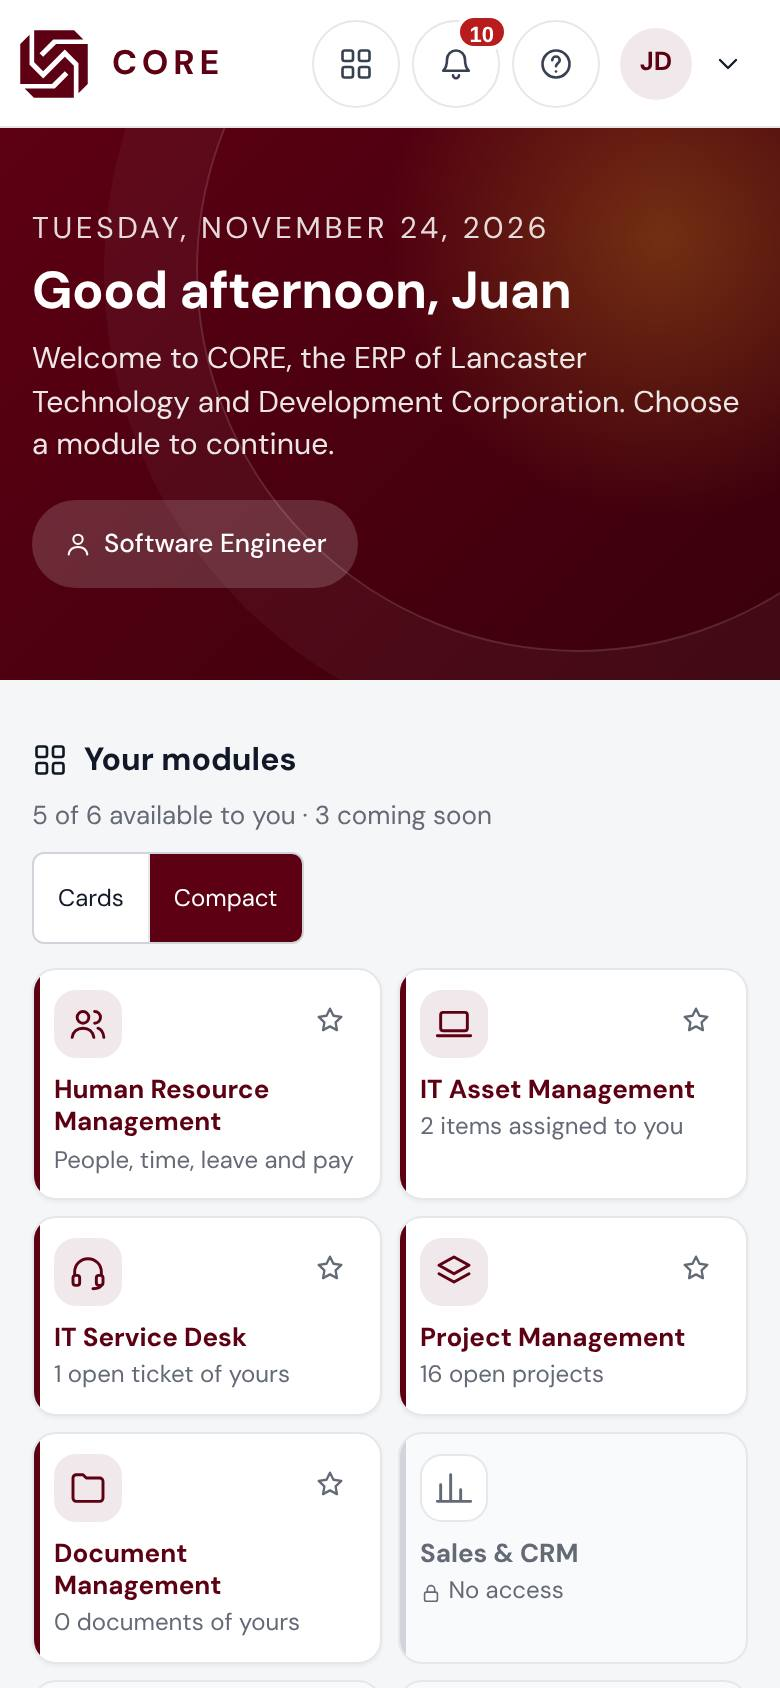
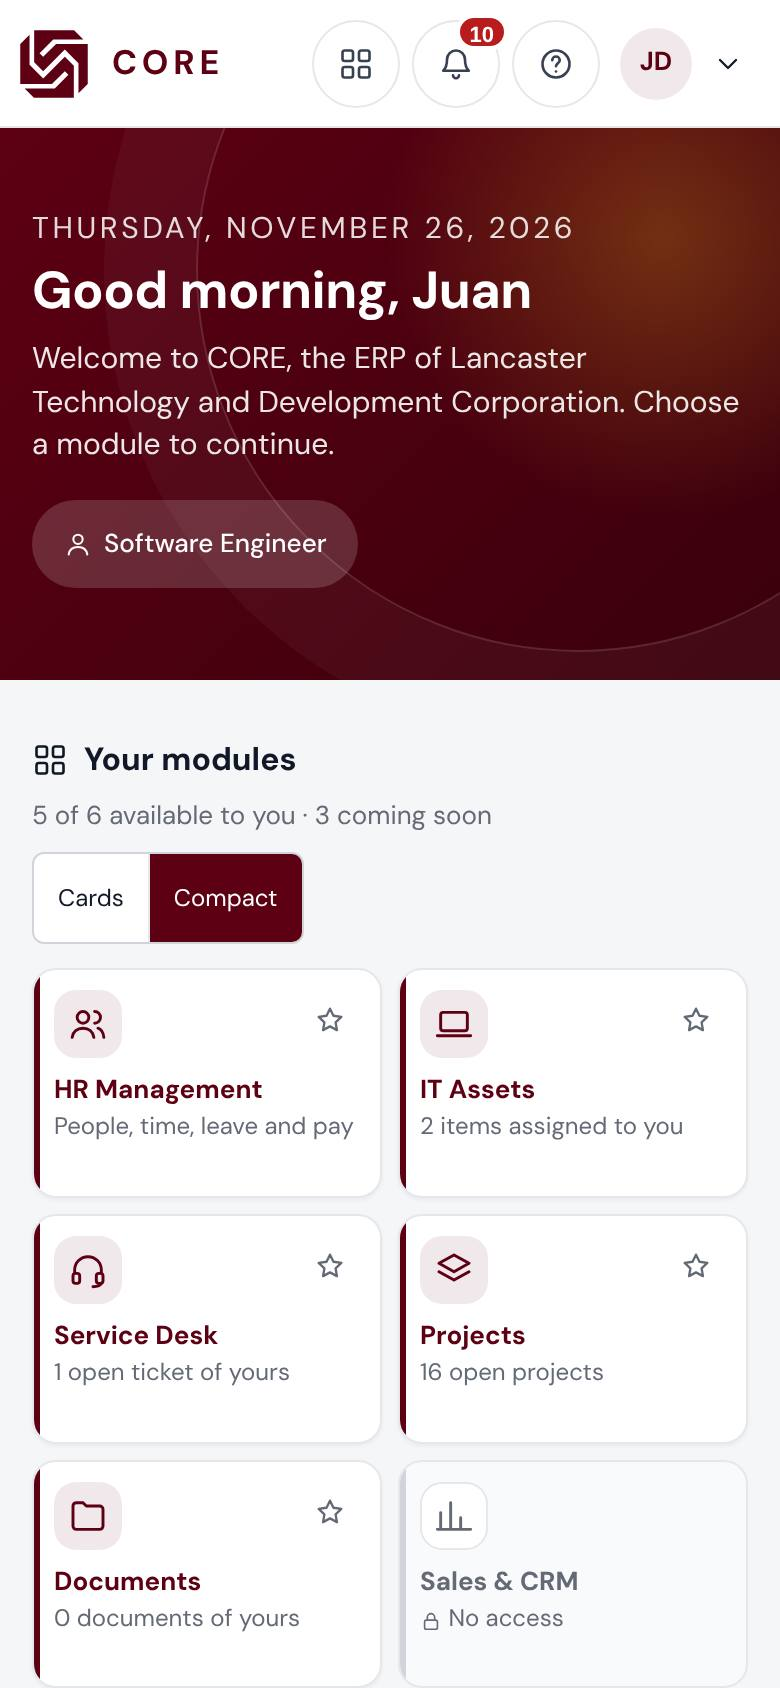
0.68.1-alpha: compact home tiles all one height
In the Compact view of the CORE home, tiles whose full name wrapped onto
two lines (Human Resource Management, Document Management, and more on
narrower screens) were 80 px against 68 px and stretched their whole
grid row; on a phone tiles were 100 to 117 px. Tiles now show the short
name the modules menu uses, on one line (full name in the tooltip), and
on a phone keep room for two lines of the figure. Measured at 390, 700,
1000, 1280 and 1500 px: every module, integration and tool tile is one
height. Getting started, What's new and three screenshots updated.

Claude-Session: https://claude.ai/code/session_01JQ4oxiUA7CnD1ir2UC84uB

diff --git a/public/js/views/launcher.js b/public/js/views/launcher.js
@@ -134,7 +134,9 @@ export async function launcherView(el) {
   const trackItems = () => html`${ordered().map((m) => (ctx.moduleHome(m.id) ? slot(m) : card(m)))}${soon.map(soonCard)}`;
 
   // The compact view (0.46): every module at once as a small tile in a grid, in the same order,
-  // with the same star; the first live figure (or what the module is) under its name.
+  // with the same star; the first live figure (or what the module is) under its name. The tile shows
+  // the module's short name (as the modules menu does) on one line, so every tile is the same height
+  // (QA 0.68.1: full names wrapped and made their whole row taller); the full name is in its title.
   const mini = (m) => {
     const home = ctx.moduleHome(m.id);
     const on = pinned().includes(m.id);
@@ -142,7 +144,7 @@ export async function launcherView(el) {
     const off = !soonOne && !moduleOn(m.id);
     const sub = soonOne ? 'Coming soon' : !home ? 'No access' : off ? 'Off for the company' : (stats[m.id] || [])[0] || m.tagline;
     const cls = `sys-mini${soonOne ? ' soon' : !home ? ' locked' : ''}${m.accent ? ` accent-${m.accent}` : ''}`;
-    const inner = html`<span class="sys-ic">${icon(m.glyph, 20)}</span><span class="grow"><strong>${m.name}</strong><small>${soonOne || !home ? html`${icon('lock', 11)} ` : ''}${sub}</small></span>`;
+    const inner = html`<span class="sys-ic">${icon(m.glyph, 20)}</span><span class="grow"><strong>${m.short || m.name}</strong><small>${soonOne || !home ? html`${icon('lock', 11)} ` : ''}${sub}</small></span>`;
     if (!home) return html`<div class="${cls}" data-module="${m.id}" aria-disabled="true" title="${m.name}: ${soonOne ? 'coming soon' : 'no access, ask your administrator'}">${inner}</div>`;
     return html`<div class="sys-mini-slot${on ? ' pinned' : ''}" data-module="${m.id}"><a class="${cls}" href="#${home}" title="Open ${m.name}">${inner}</a>
       <button type="button" class="sys-pin" data-pin="${m.id}" aria-pressed="${on ? 'true' : 'false'}" aria-label="${on ? `Unpin ${m.name}` : `Pin ${m.name} to the front`}" title="${on ? 'Pinned to the front: click to unpin' : 'Pin to the front'}">${icon('star', 16)}</button></div>`;
@@ -170,7 +172,7 @@ export async function launcherView(el) {
       <ul class="int-feats" aria-label="What it does">${t.features.map((f) => html`<li>${f}</li>`)}</ul>
       <span class="sys-open">Open ${t.name} ${icon('chevronRight', 16)}</span>
     </a>`;
-  const toolMini = (t) => html`<a class="sys-mini int-mini tool-mini int-${t.accent}" href="#${t.home}" data-tool="${t.id}"><span class="sys-ic">${icon(t.glyph, 20)}</span><span class="grow"><strong>${t.name}</strong><small>${moduleOn(t.id) ? t.tagline : 'Off for the company'}</small></span></a>`;
+  const toolMini = (t) => html`<a class="sys-mini int-mini tool-mini int-${t.accent}" href="#${t.home}" data-tool="${t.id}"><span class="sys-ic">${icon(t.glyph, 20)}</span><span class="grow"><strong>${t.short || t.name}</strong><small>${moduleOn(t.id) ? t.tagline : 'Off for the company'}</small></span></a>`;
   // Cards (the sliding row) or Compact (all at once): kept in this browser, like the theme. Until
   // someone chooses, a phone starts in Compact (0.47) and a larger screen in Cards.
   const VIEW_KEY = 'core-home-view';

diff --git a/public/css/styles.css b/public/css/styles.css
@@ -1247,12 +1247,13 @@ a.fb-row { color: var(--text); }
 .sys-section.compact .sys-compact { display: grid; grid-template-columns: repeat(auto-fill, minmax(230px, 1fr)); gap: 10px; }
 .sys-mini-slot { position: relative; display: flex; min-width: 0; }
 .sys-mini-slot > .sys-mini { flex: 1; min-width: 0; padding-right: 44px; }
+/* Every tile the same height (QA 0.68.1): one line for the name, one for the figure. */
 .sys-mini { display: flex; align-items: center; gap: 12px; padding: 12px 14px; min-height: 68px; background: var(--surface); border: 1px solid var(--border); border-radius: 12px; color: var(--text); box-shadow: var(--shadow); position: relative; overflow: hidden; transition: border-color 0.14s, box-shadow 0.14s; }
 .sys-mini::before { content: ''; position: absolute; inset: 0 auto 0 0; width: 3px; background: var(--brand); }
 a.sys-mini:hover, .sys-mini-slot:hover > a.sys-mini { text-decoration: none; border-color: var(--brand-line); box-shadow: var(--shadow-lg); }
 .sys-mini .sys-ic { width: 40px; height: 40px; border-radius: 11px; display: grid; place-items: center; background: var(--brand-soft); color: var(--brand-text); flex: none; }
 .sys-mini .grow { flex: 1; min-width: 0; }
-.sys-mini strong { display: block; font-size: 14px; line-height: 1.25; color: var(--brand-text); }
+.sys-mini strong { display: block; font-size: 14px; line-height: 1.25; color: var(--brand-text); white-space: nowrap; overflow: hidden; text-overflow: ellipsis; }
 .sys-mini small { display: block; margin-top: 2px; font-size: 12px; color: var(--muted); white-space: nowrap; overflow: hidden; text-overflow: ellipsis; }
 .sys-mini.locked, .sys-mini.soon { background: var(--surface-2); box-shadow: none; cursor: default; }
 .sys-mini.locked::before, .sys-mini.soon::before { background: var(--border-strong); }
@@ -1273,7 +1274,9 @@ a.sys-mini:hover, .sys-mini-slot:hover > a.sys-mini { text-decoration: none; bor
   .sys-mini .sys-ic { width: 34px; height: 34px; }
   .sys-mini .grow { width: 100%; }
   .sys-mini strong { font-size: 13px; }
-  .sys-mini small { white-space: normal; display: -webkit-box; -webkit-line-clamp: 2; -webkit-box-orient: vertical; }
+  /* Room for two lines under every name, used or not, so the tiles are the same height. */
+  .sys-mini small { white-space: normal; display: -webkit-box; -webkit-line-clamp: 2; -webkit-box-orient: vertical; line-height: 1.35; min-height: 2.7em; }
+  .sys-mini-slot .sys-mini strong { padding-right: 22px; }
   .sys-mini-slot > .sys-mini { padding-right: 10px; }
   .sys-mini-slot .sys-pin, .sys-mini-slot:hover .sys-pin { top: 4px; right: 4px; transform: none; }
   /* The section head: the count on its own line, then Cards / Compact; the dots and a swipe move the row. */

diff --git a/shared/devlog.js b/shared/devlog.js
@@ -28,6 +28,16 @@ export const CHANGE_TYPES = { new: 'Added', improved: 'Changed', fixed: 'Fixed' 
 
 export const DEVLOG = [
   {
+    version: '0.68.1-alpha',
+    date: '2026-11-26',
+    title: 'Compact home tiles of one size',
+    modules: ['system'],
+    notes: 'QA of the CORE home: the compact tiles took the height of their name, and a grid row the height of its tallest tile.',
+    changes: [
+      ['fixed', 'system', 'CORE home, Compact view: tiles whose full name wrapped onto two lines (Human Resource Management, Document Management, and more on narrower screens) were taller and stretched their whole row (80 px beside 68 px; 100 to 117 px on a phone). Tiles show the short name, as the modules menu does, on one line (the full name in the tooltip), and on a phone keep room for two lines of the figure: every module, integration and tool tile is now one height at every width.'],
+    ],
+  },
+  {
     version: '0.68.0-alpha',
     date: '2026-11-25',
     title: 'PDF Studio: export in other formats',

diff --git a/docs/guides/getting-started.md b/docs/guides/getting-started.md
@@ -41,7 +41,7 @@ This tour uses the demo data. Sign in as `employee.demo` with the password `demo
 
 ![The CORE home, with a card per module](getting-started-home.jpg)
 
-To see every module at once, choose **Compact** beside **Your modules**: the modules become small tiles in a grid, in the same order, each with its first figure and its star. **Cards** brings back the sliding row. On a phone the CORE home starts in **Compact**; on a computer or tablet, in **Cards**. Once you choose, your choice is kept in this browser.
+To see every module at once, choose **Compact** beside **Your modules**: the modules become small tiles in a grid, all the same size, in the same order, each with its short name (*HR Management*, *IT Assets*, *Documents*; point at a tile for its full name), its first figure and its star. **Cards** brings back the sliding row. On a phone the CORE home starts in **Compact**; on a computer or tablet, in **Cards**. Once you choose, your choice is kept in this browser.
 
 ![The CORE home in the compact view](getting-started-compact.jpg)
 

diff --git a/docs/guides/whats-new.md b/docs/guides/whats-new.md
@@ -9,6 +9,9 @@ order: 2
 
 ## November 2026
 
+### Compact tiles all the same size (0.68.1)
+- In the **Compact** view of the CORE home, every tile (modules, integrations and tools) is now the same height. Tiles show the module's short name, as the modules menu does (*HR Management*, *Projects*, *Documents*); point at a tile for its full name. See [Getting started](getting-started#walkthrough).
+
 ### PDF Studio exports Word, Excel, text and pictures (0.68)
 - **PDF Studio** now exports more than PDFs. Under **Export → Format**, choose **Word**, **OpenDocument text**, **Rich Text**, **Web page**, **Markdown** or **Plain text** for a document to go on editing (paragraphs, headings, tables and pictures read back from the pages), **Excel** or **CSV** for the text in rows and columns with numbers as numbers, or **PNG**, **JPEG** or **SVG** pictures of each page. Your arrangement, changes and signatures go in. See [the PDF Studio guide](pdf-studio#export-as-word-excel-text-or-pictures).
 
